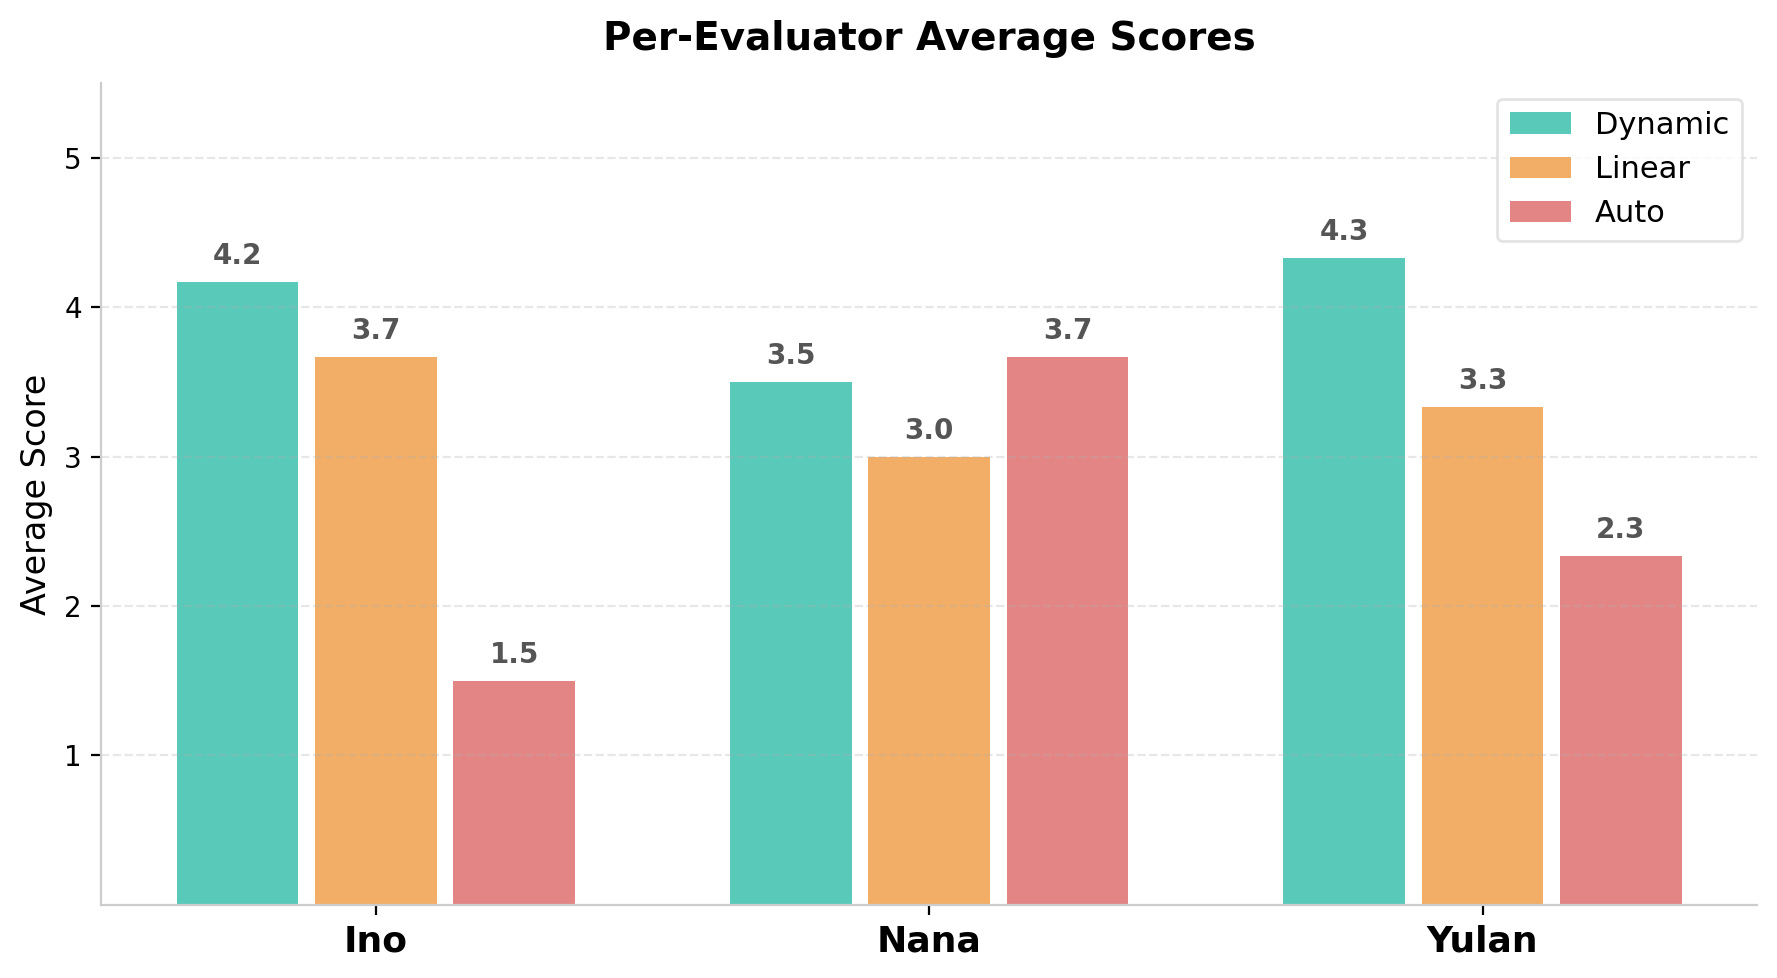
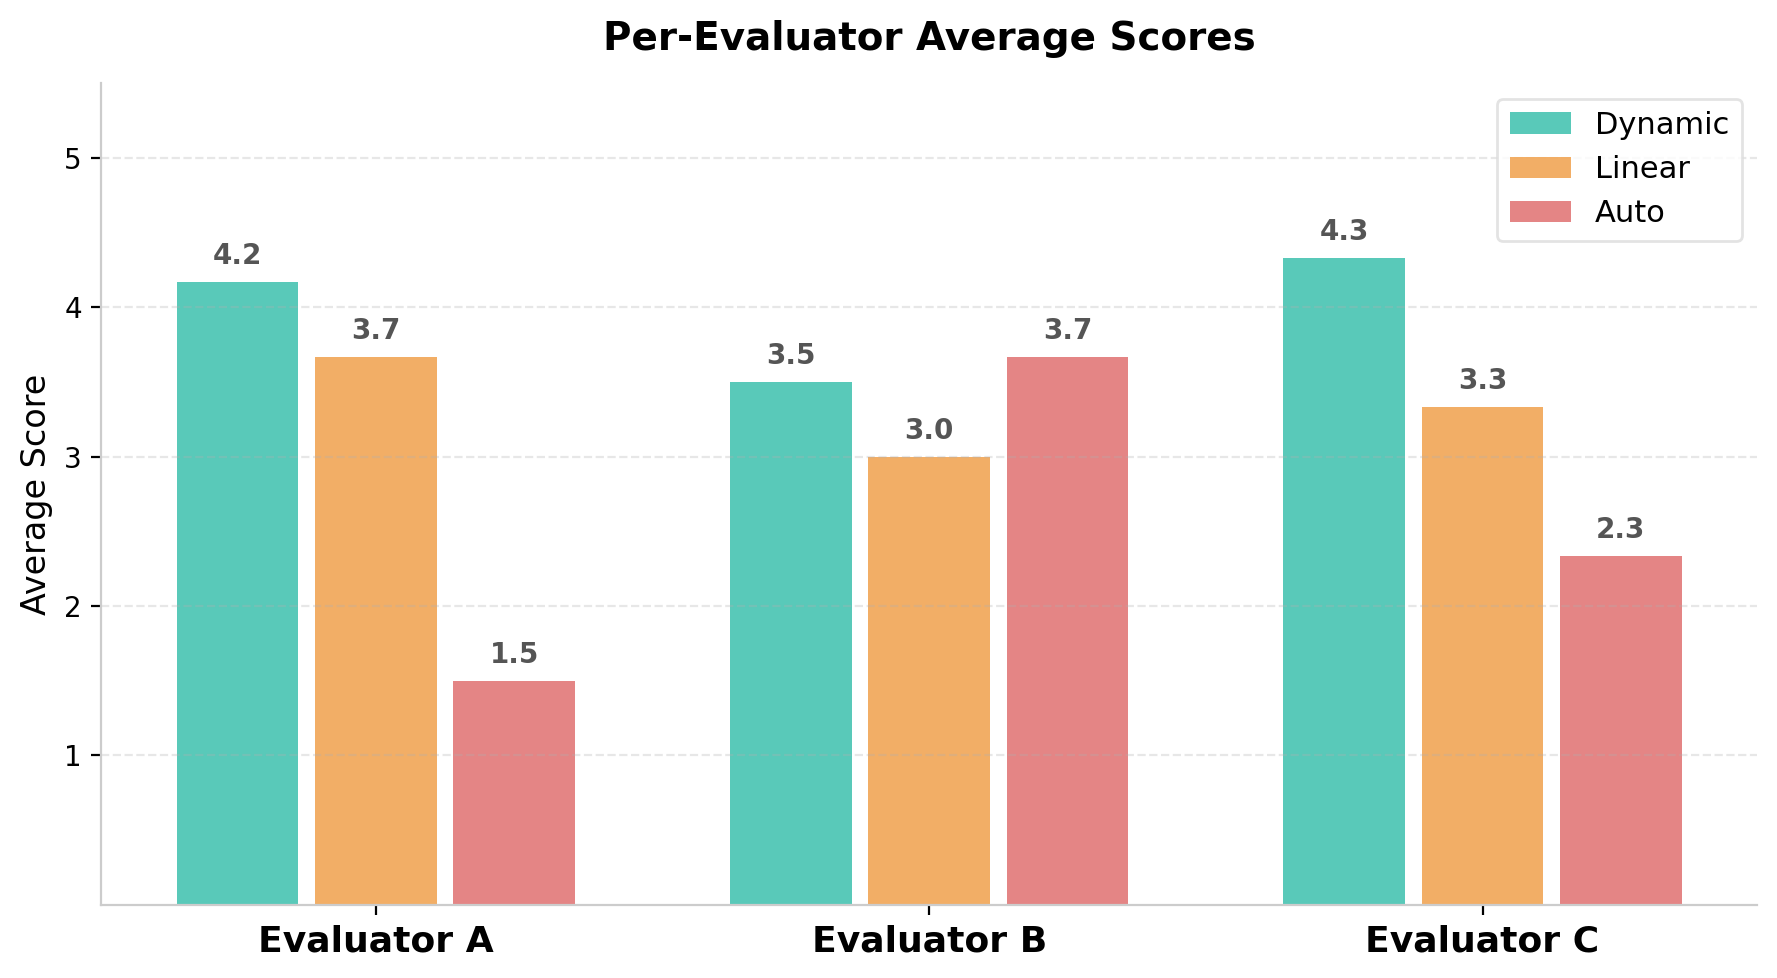
anonymize evaluator names in charts (Evaluator A/B/C)

Changed region(s): [[0.4333, 0.9509, 0.5881, 0.9816], [0.1238, 0.9509, 0.2786, 0.9816], [0.7738, 0.9509, 0.8976, 0.9816]]

diff --git a/scripts/analyze_eval.py b/scripts/analyze_eval.py
@@ -16,6 +16,10 @@ df["From"] = df["From"].str.strip()
 df["To"] = df["To"].str.strip()
 df["Score"] = pd.to_numeric(df["Score"])
 
+# Anonymize evaluator names
+name_map = {n: f"Evaluator {chr(65+i)}" for i, n in enumerate(sorted(df["Name"].unique()))}
+df["Name"] = df["Name"].map(name_map)
+
 print("=" * 60)
 print("BLIND A/B/C EVALUATION RESULTS")
 print("=" * 60)
@@ -188,7 +192,7 @@ for tid in sorted(df["test_id"].unique()):
     fr = row_data["From"].iloc[0]
     to = row_data["To"].iloc[0]
     n = int(row_data["N"].iloc[0])
-    test_labels.append(f"T{tid}: {name}\n{fr}→{to} (N={n})")
+    test_labels.append(f"T{tid}\n{fr}→{to} (N={n})")
     row_scores = []
     for m in method_order:
         s = row_data[row_data["Method"] == m]["Score"].values[0]
